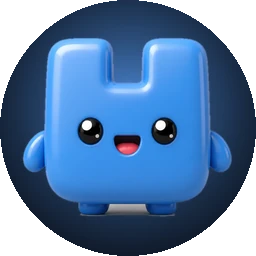
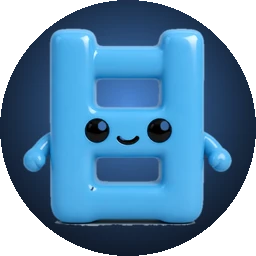
브로 아바타: 글자 대신 파란색 ㅂ 모양 3D 마스코트(반짝이는 눈·미소), 카운터 투명 처리

diff --git a/_tools/make_avatars.py b/_tools/make_avatars.py
@@ -43,7 +43,7 @@ def _grow(seed, allowed, h, w):
     return seen
 
 
-def cutout(path, tol=26.0, eat_shadow=False, floor_kill=False):
+def cutout(path, tol=26.0, eat_shadow=False, floor_kill=False, keep_holes=True, key_all=False):
     im = load_small(path)
     a = np.asarray(im).astype(np.int16)
     h, w, _ = a.shape
@@ -57,12 +57,16 @@ def cutout(path, tol=26.0, eat_shadow=False, floor_kill=False):
         mn = a.min(axis=2)
         gray = ((mx - mn) < 22) & (a.mean(axis=2) > 95)
         allowed = allowed | gray
-    seed = np.zeros((h, w), dtype=bool)
-    seed[0, :] = allowed[0, :]
-    seed[-1, :] = allowed[-1, :]
-    seed[:, 0] = allowed[:, 0]
-    seed[:, -1] = allowed[:, -1]
-    bg = _grow(seed, allowed, h, w)
+    if key_all:
+        # 배경과 같은 색은 위치와 무관하게 지운다 (ㅂ 카운터 같은 내부 구멍)
+        bg = allowed.copy()
+    else:
+        seed = np.zeros((h, w), dtype=bool)
+        seed[0, :] = allowed[0, :]
+        seed[-1, :] = allowed[-1, :]
+        seed[:, 0] = allowed[:, 0]
+        seed[:, -1] = allowed[:, -1]
+        bg = _grow(seed, allowed, h, w)
 
     fg = ~bg
     if floor_kill:
@@ -88,9 +92,10 @@ def cutout(path, tol=26.0, eat_shadow=False, floor_kill=False):
                     best, best_n = cur, n
             x += 1
     fg = (lab == best) if best else fg
-    # 내부 구멍 메우기 (눈동자 하이라이트 등 유지)
-    outside = _grow(seed_border(~fg, h, w), ~fg, h, w)
-    fg = fg | (~fg & ~outside)
+    if keep_holes:
+        # 내부 구멍 메우기 (눈동자 하이라이트 등 유지)
+        outside = _grow(seed_border(~fg, h, w), ~fg, h, w)
+        fg = fg | (~fg & ~outside)
 
     alpha = Image.fromarray((fg * 255).astype(np.uint8))
     alpha = alpha.filter(ImageFilter.MinFilter(3))
@@ -173,7 +178,7 @@ def photo_avatar(path, out_path, box, bright=1.02, contrast=1.04):
 
 # src, out, brand color, tol, scale, eat_shadow, floor_kill
 JOBS = [
-    ("gen_bro3.png",        "avatar_bro.webp",      "#5aa2ff", 30, 0.92, True,  True),
+    ("gen_bro4.png",        "avatar_bro.webp",      "#5aa2ff", 26, 0.92, True,  True, False, True),
     ("gen_instinct.png",    "avatar_instinct.webp", "#8b8cff", 30, 0.92, True,  True),
     ("gen_dict.png",        "avatar_dict.webp",     "#7fb0ff", 30, 0.92, False, True),
     ("gen_sound.png",       "avatar_sound.webp",    "#b18cff", 30, 0.92, False, True),
@@ -186,8 +191,12 @@ JOBS = [
 
 def main():
     os.makedirs(OUT, exist_ok=True)
-    for src, out, color, tol, scale, eat, floor in JOBS:
-        cut = square_tight(cutout(os.path.join(SRC, src), tol=tol, eat_shadow=eat, floor_kill=floor))
+    for job in JOBS:
+        src, out, color, tol, scale, eat, floor = job[:7]
+        holes = job[7] if len(job) > 7 else True
+        key_all = job[8] if len(job) > 8 else False
+        cut = square_tight(cutout(os.path.join(SRC, src), tol=tol, eat_shadow=eat,
+                                  floor_kill=floor, keep_holes=holes, key_all=key_all))
         p = compose(cut, color, os.path.join(OUT, out), scale=scale)
         print(out, os.path.getsize(p) // 1024, "KB")
     golf = photo_avatar(
